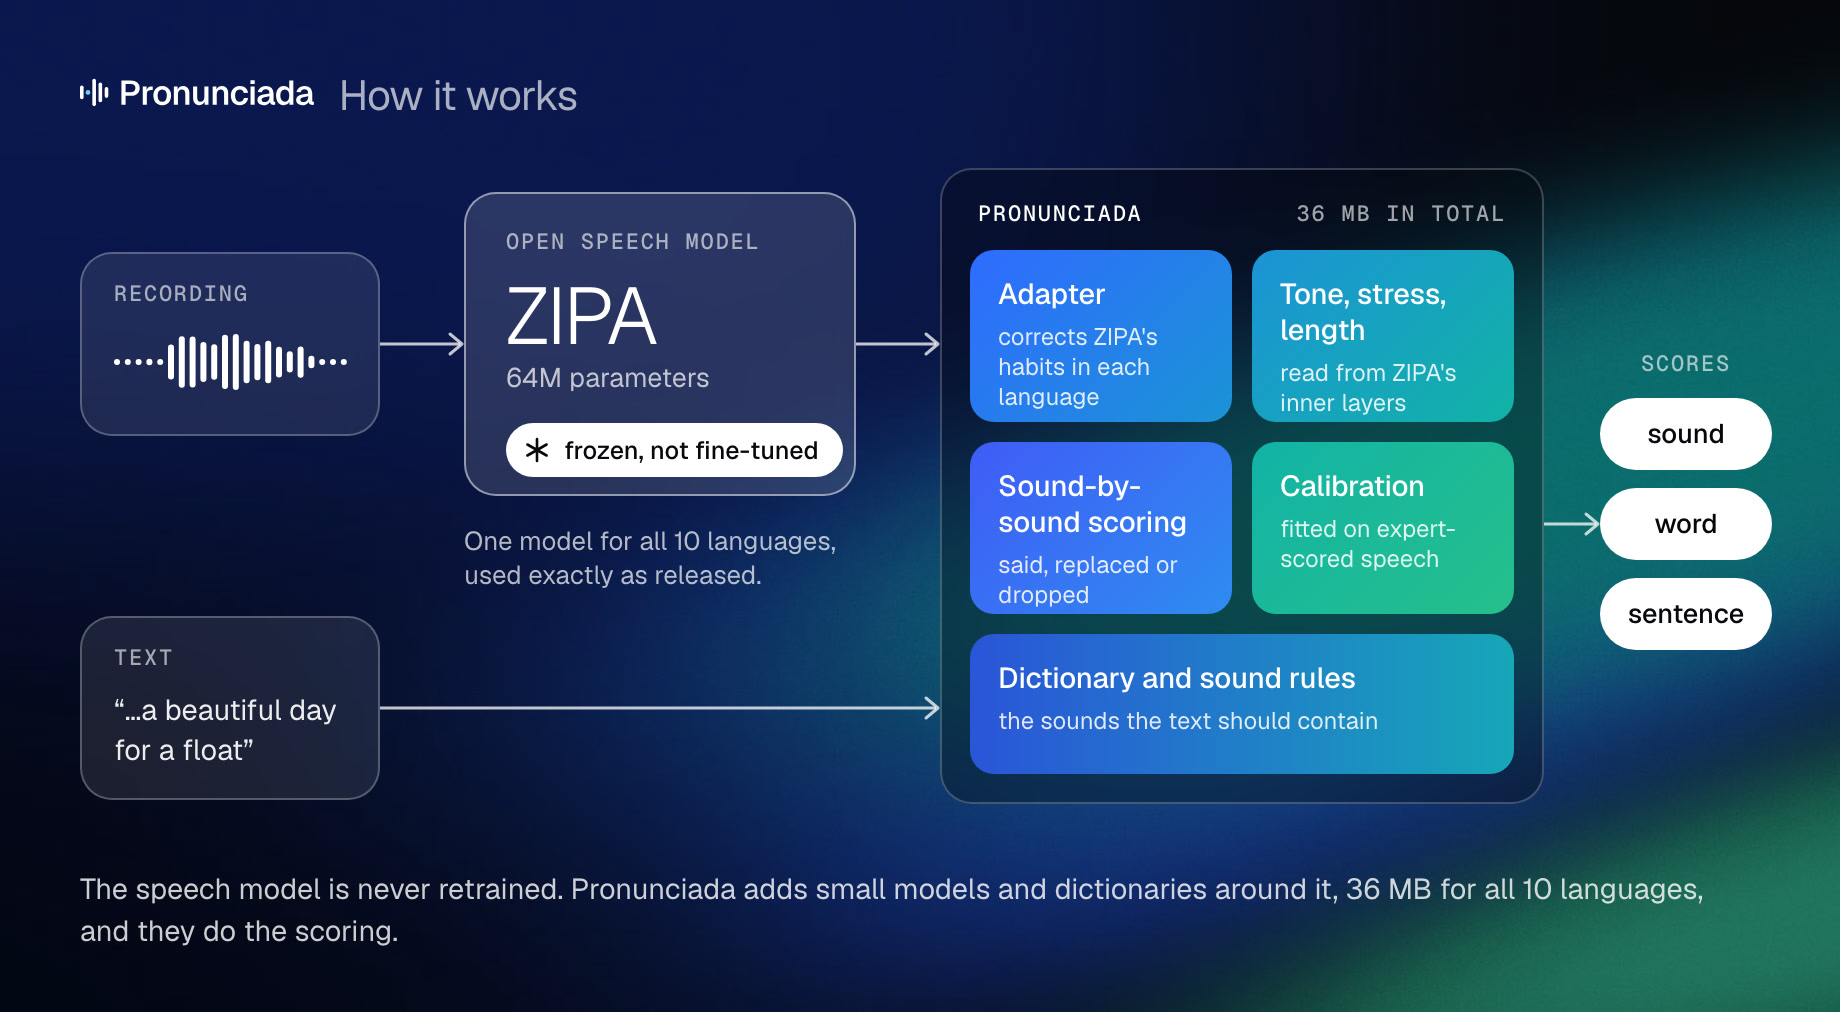
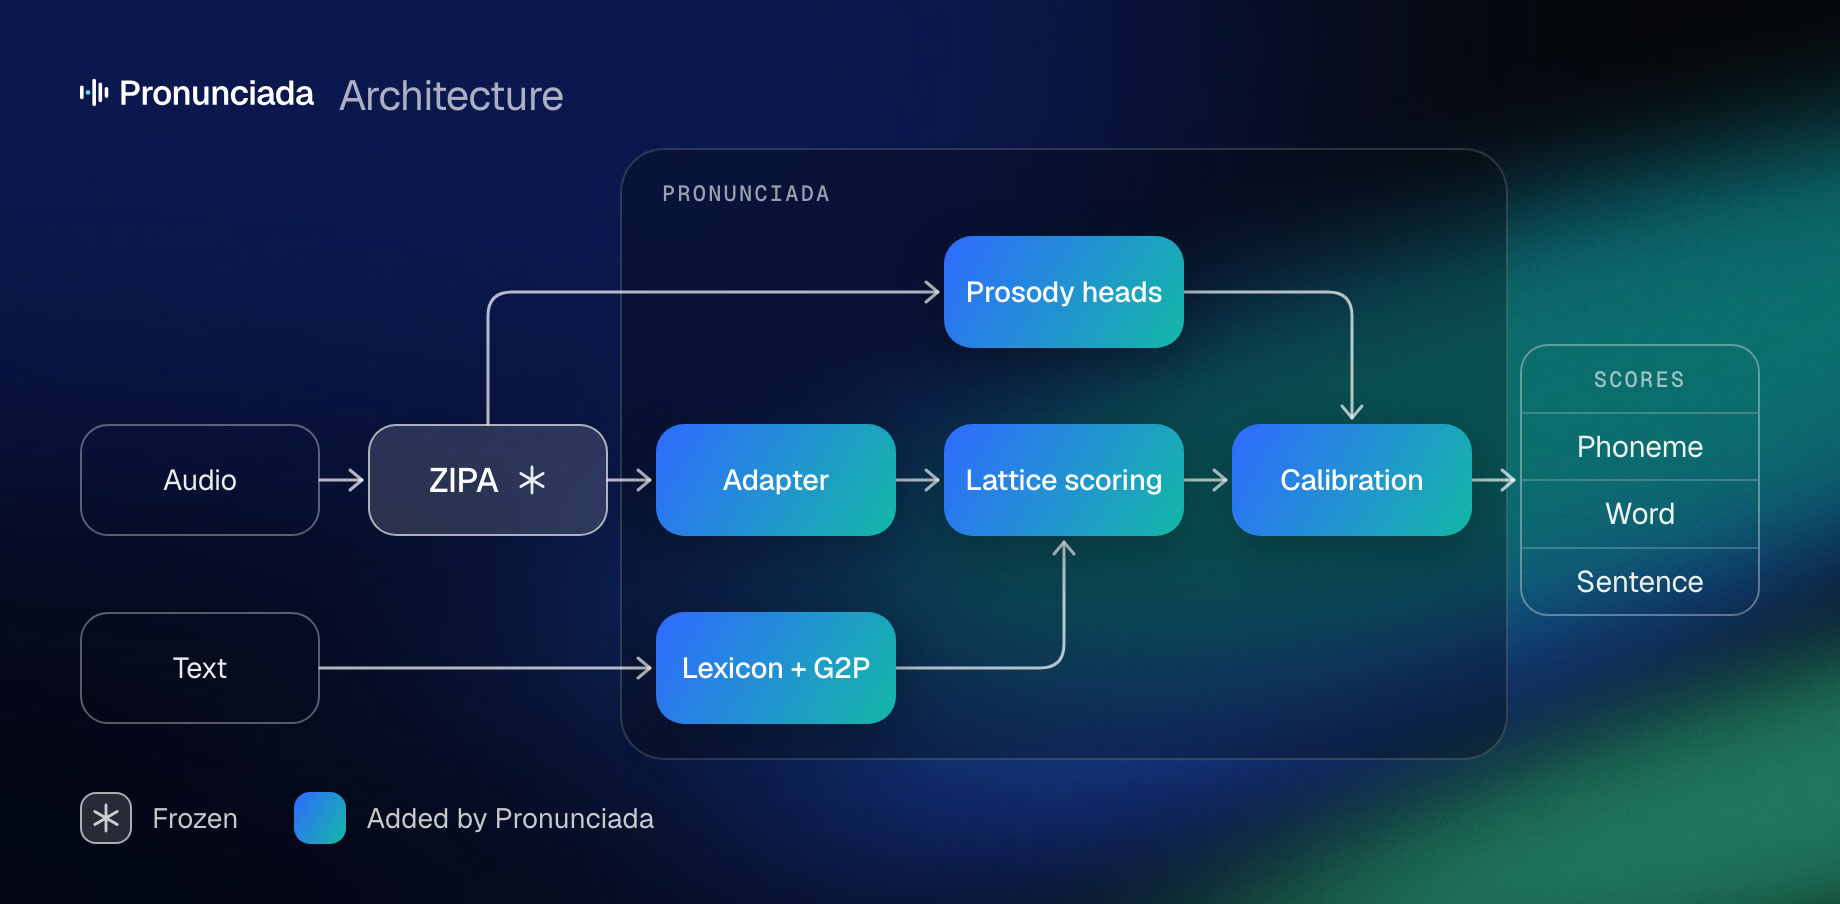
README: cleaner architecture diagram, ZIPA comparison in place of the detection chart, latency chart

diff --git a/scripts/graphics/make_site.py b/scripts/graphics/make_site.py
@@ -145,76 +145,63 @@ CARD_CSS = """
 *{box-sizing:border-box;margin:0}
 body{margin:0;font-family:'Geist',sans-serif;color:#fff;-webkit-font-smoothing:antialiased}
 .card{position:relative;width:920px;background:linear-gradient(rgba(4,6,10,.40),rgba(4,6,10,.40)),#06080c url(GRADIENT) center/cover}
-.arch{height:506px}
 .arch .head{position:absolute;left:40px;top:34px;display:flex;align-items:center;gap:12px;font-size:21px;letter-spacing:-.02em;color:rgba(255,255,255,.66)}
 .arch .head svg{height:17.5px;display:block}
-.box{position:absolute;border-radius:16px;background:rgba(255,255,255,.09);border:1px solid rgba(255,255,255,.26);backdrop-filter:blur(8px)}
-.in{padding:14px 16px}
-.in b,.zipa small,.group .gh{display:block;font:500 11px/1 'Geist Mono',monospace;letter-spacing:.08em;text-transform:uppercase;color:rgba(255,255,255,.62)}
-.in svg{display:block;margin-top:14px}
-.in p{margin-top:11px;font-size:14.5px;line-height:20px;color:rgba(255,255,255,.92)}
-.zipa{padding:18px 20px;background:rgba(255,255,255,.13);border-color:rgba(255,255,255,.5)}
-.zipa h3{margin:12px 0 2px;font-weight:300;font-size:40px;line-height:1;letter-spacing:-.03em}
-.zipa p{font-size:13.5px;color:rgba(255,255,255,.72)}
-.pill{display:inline-flex;align-items:center;gap:7px;margin-top:14px;height:27px;padding:0 12px 0 9px;border-radius:99px;background:#fff;color:#06080c;font-size:12.5px;font-weight:500;white-space:nowrap}
-.note{position:absolute;font-size:13px;color:rgba(255,255,255,.7)}
-.group{padding:16px 14px 14px;background:rgba(4,6,10,.34);border-color:rgba(255,255,255,.22)}
-.group .gh{display:flex;justify-content:space-between;padding:0 4px 13px}
-.group .gh span{color:#fff}
-.tiles{display:grid;grid-template-columns:1fr 1fr;gap:10px}
-.tile{height:86px;padding:13px 14px;border-radius:12px}
-.tile.wide{grid-column:1/-1;height:70px}
-.tile b{display:block;font-weight:500;font-size:14.5px;line-height:18px;letter-spacing:-.005em}
-.tile span{display:block;margin-top:5px;font-size:12px;line-height:15px;color:rgba(255,255,255,.86)}
-.out{position:absolute;width:86px;text-align:center}
-.out em{display:block;font:500 11px/1 'Geist Mono',monospace;letter-spacing:.08em;text-transform:uppercase;font-style:normal;color:rgba(255,255,255,.62);margin-bottom:12px}
-.out i{display:block;height:36px;margin-bottom:9px;border-radius:99px;background:#fff;color:#06080c;font:500 13.5px/36px 'Geist',sans-serif;font-style:normal}
-.arch .cap{position:absolute;left:40px;right:40px;bottom:30px;font-size:14.5px;line-height:21px;color:rgba(255,255,255,.8)}
+.nd{position:absolute;display:flex;align-items:center;justify-content:center;gap:9px;border-radius:14px;font-weight:500;font-size:14.5px;letter-spacing:-.01em;white-space:nowrap}
+.nd.io{border:1px solid rgba(255,255,255,.34);color:rgba(255,255,255,.92);font-weight:400}
+.nd.frozen{background:rgba(255,255,255,.14);border:1px solid rgba(255,255,255,.62);font-size:17px}
+.nd.tr{background:linear-gradient(120deg,#2f6bff,#14b8a6);box-shadow:0 8px 24px rgba(4,6,10,.28)}
+.nd.out{flex-direction:column;gap:0;padding:0;align-items:stretch;justify-content:stretch;border:1px solid rgba(255,255,255,.34);overflow:hidden;font-weight:400}
+.nd.out em,.nd.out span{flex:1;display:flex;align-items:center;justify-content:center;font-style:normal;font-size:15px;color:rgba(255,255,255,.92);border-top:1px solid rgba(255,255,255,.2)}
+.nd.out em{border-top:0;font:500 11px/1 'Geist Mono',monospace;letter-spacing:.1em;text-transform:uppercase;color:rgba(255,255,255,.6)}
+.nd .ic{opacity:.9}
+.region{position:absolute;border-radius:22px;background:rgba(4,6,10,.3);border:1px solid rgba(255,255,255,.16)}
+.region b{position:absolute;left:20px;top:16px;font:500 11px/1 'Geist Mono',monospace;letter-spacing:.1em;text-transform:uppercase;color:rgba(255,255,255,.6)}
 svg.wires{position:absolute;left:0;top:0}
+svg.wires path{fill:none;stroke:rgba(255,255,255,.7);stroke-width:1.5;stroke-linecap:round;stroke-linejoin:round}
+.legend{position:absolute;left:40px;bottom:30px;display:flex;align-items:center;gap:10px;font-size:14px;color:rgba(255,255,255,.78)}
+.legend .k{display:inline-flex;align-items:center;justify-content:center;width:26px;height:26px;border-radius:8px}
+.legend .k.frozen{background:rgba(255,255,255,.14);border:1px solid rgba(255,255,255,.62)}
+.legend .k.tr{background:linear-gradient(120deg,#2f6bff,#14b8a6);margin-left:18px}
 .stats{display:grid;grid-template-columns:1.25fr .8fr 1fr 1.15fr;gap:0 36px;padding:40px 44px 38px}
 .stats b{display:block;font-weight:300;font-size:58px;line-height:1;letter-spacing:-.04em;white-space:nowrap;font-variant-numeric:tabular-nums}
 .stats b small{font-size:25px;letter-spacing:-.02em;color:rgba(255,255,255,.72);margin-left:5px}
 .stats span{display:block;margin-top:14px;font-size:14.5px;line-height:20px;color:rgba(255,255,255,.78)}
 """
-TILES = (("linear-gradient(135deg,#2f6bff,#1b93d6)", "Adapter", "corrects ZIPA's habits in each language", ""),
-         ("linear-gradient(135deg,#1b93d6,#12b3a6)", "Tone, stress, length", "read from ZIPA's inner layers", ""),
-         ("linear-gradient(135deg,#3f5cf6,#2f8cf0)", "Sound-by-sound scoring", "said, replaced or dropped", ""),
-         ("linear-gradient(135deg,#12b3a6,#25c08a)", "Calibration", "fitted on expert-scored speech", ""),
-         ("linear-gradient(90deg,#2a55d8,#16a7b8)", "Dictionary and sound rules", "the sounds the text should contain", " wide"))
-
-
 def figure_architecture() -> str:
-    """How it works: the recording goes through ZIPA as released, and Pronunciada's small models do the scoring."""
-    import soundfile as sf
+    """The architecture as a graph: ZIPA frozen, Pronunciada's trained parts around it."""
     from make_logo import wordmark
 
-    sample = ROOT / "site/samples/en-learner-1"
-    audio, sr = sf.read(str(sample.with_suffix(".mp3")), dtype="float32", always_2d=True)
-    mono = audio.mean(axis=1)
-    n = 22
-    step = len(mono) // n
-    level = [float(abs(mono[i * step:(i + 1) * step]).max()) for i in range(n)]
-    top = max(level)
-    bars = "".join(f'<rect x="{i * 5.4:.1f}" y="{15 - max(1.5, (v / top) ** .7 * 14):.1f}" width="3" height="{2 * max(1.5, (v / top) ** .7 * 14):.1f}" rx="1.5" fill="#fff"/>'
-                   for i, v in enumerate(level))
-    snow = ('<svg width="13" height="13" viewBox="0 0 13 13" fill="none" stroke="#06080c" stroke-width="1.3" stroke-linecap="round">'
-            '<path d="M6.5 1v11M1.7 3.75l9.6 5.5M11.3 3.75l-9.6 5.5"/></svg>')
-    tiles = "".join(f'<div class="tile{cls}" style="background:{bg}"><b>{name}</b><span>{what}</span></div>' for bg, name, what, cls in TILES)
-    mb = round(sum(f.stat().st_size for f in (ROOT / "pronunciada/data").rglob("*") if f.is_file()) / 1e6)     # models and dictionaries
-    arrow = lambda x1, y, x2: (f'<path d="M{x1} {y}H{x2 - 2}" stroke="rgba(255,255,255,.75)" stroke-width="1.5"/>'
-                               f'<path d="M{x2 - 7} {y - 5}l6 5-6 5" fill="none" stroke="rgba(255,255,255,.75)" stroke-width="1.5" stroke-linejoin="round" stroke-linecap="round"/>')
-    wires = f'<svg class="wires" width="920" height="506">{arrow(190, 172, 232)}{arrow(428, 172, 470)}{arrow(190, 354, 470)}{arrow(772, 262, 800)}</svg>'
-    return (f'<div class="card arch"><div class="head">{wordmark("#ffffff")}<span>How it works</span></div>'
-            f'<div class="box in" style="left:40px;top:126px;width:150px;height:92px"><b>Recording</b><svg width="120" height="30">{bars}</svg></div>'
-            f'<div class="box in" style="left:40px;top:308px;width:150px;height:92px"><b>Text</b><p>“…a beautiful day for a float”</p></div>'
-            f'<div class="box zipa" style="left:232px;top:96px;width:196px;height:152px"><small>Open speech model</small><h3>ZIPA</h3><p>64M parameters</p>'
-            f'<span class="pill">{snow}frozen, not fine-tuned</span></div>'
-            f'<div class="note" style="left:232px;top:262px;width:196px">One model for all 10 languages, used exactly as released.</div>'
-            f'<div class="box group" style="left:470px;top:84px;width:302px;height:318px"><div class="gh"><span>Pronunciada</span>{mb} MB in total</div>'
-            f'<div class="tiles">{tiles}</div></div>'
-            f'<div class="out" style="left:800px;top:176px"><em>Scores</em><i>sound</i><i>word</i><i>sentence</i></div>'
-            f'{wires}<p class="cap">The speech model is never retrained. Pronunciada adds small models and dictionaries around it, {mb} MB for all 10 languages, '
-            'and they do the scoring.</p></div>')
+    W, H, NW, NH = 920, 452, 120, 56
+    col = [40 + i * 144 for i in range(6)]
+    row = [118, 212, 306]
+    snow = ('<svg class="ic" width="15" height="15" viewBox="0 0 15 15" fill="none" stroke="currentColor" stroke-width="1.4" stroke-linecap="round">'
+            '<path d="M7.5 1v13M1.9 4.25l11.2 6.5M13.1 4.25l-11.2 6.5"/></svg>')
+    node = lambda c, r, name, cls, extra="": (f'<div class="nd {cls}" style="left:{col[c]}px;top:{row[r]}px;width:{NW}px;height:{NH}px">'
+                                              f'{name}{extra}</div>')
+    nodes = (node(0, 1, "Audio", "io") + node(0, 2, "Text", "io") + node(1, 1, "ZIPA", "frozen", snow)
+             + node(2, 1, "Adapter", "tr") + node(3, 1, "Lattice scoring", "tr") + node(4, 1, "Calibration", "tr")
+             + node(2, 2, "Lexicon + G2P", "tr") + node(3, 0, "Prosody heads", "tr"))
+    out_h = 4 * 34
+    out = (f'<div class="nd out" style="left:{col[5]}px;top:{row[1] + NH // 2 - out_h // 2}px;width:{NW}px;height:{out_h}px">'
+           '<em>Scores</em><span>Phoneme</span><span>Word</span><span>Sentence</span></div>')
+    mid = [r + NH // 2 for r in row]
+    right = lambda c: col[c] + NW
+    head = {"r": "l-6 -5m6 5l-6 5", "u": "l-5 6m5 -6l5 6", "d": "l-5 -6m5 6l5 -6"}
+    wire = lambda d, way: f'<path d="{d}"/><path d="M{d.split()[-2]} {d.split()[-1]}{head[way]}"/>'
+    xs, xc = col[3] + NW // 2, col[4] + NW // 2            # into Lattice scoring from below, into Calibration from above
+    wires = "".join([
+        *(wire(f"M{right(c)} {mid[1]} L {col[c + 1] - 3} {mid[1]}", "r") for c in range(5)),
+        wire(f"M{right(0)} {mid[2]} L {col[2] - 3} {mid[2]}", "r"),
+        wire(f"M{right(2)} {mid[2]} H{xs - 12} Q{xs} {mid[2]} {xs} {mid[2] - 12} L {xs} {row[1] + NH + 3}", "u"),
+        wire(f"M{col[1] + NW // 2} {row[1]} V{mid[0] + 12} Q{col[1] + NW // 2} {mid[0]} {col[1] + NW // 2 + 12} {mid[0]} L {col[3] - 3} {mid[0]}", "r"),
+        wire(f"M{right(3)} {mid[0]} H{xc - 12} Q{xc} {mid[0]} {xc} {mid[0] + 12} L {xc} {row[1] - 3}", "d"),
+    ])
+    region = (f'<div class="region" style="left:{col[2] - 18}px;top:{row[0] - 44}px;width:{right(4) - col[2] + 36}px;'
+              f'height:{row[2] + NH - row[0] + 62}px"><b>Pronunciada</b></div>')
+    legend = (f'<div class="legend"><span class="k frozen">{snow}</span>Frozen<span class="k tr"></span>Added by Pronunciada</div>')
+    return (f'<div class="card arch" style="height:{H}px"><div class="head">{wordmark("#ffffff")}<span>Architecture</span></div>'
+            f'{region}<svg class="wires" width="{W}" height="{H}">{wires}</svg>{nodes}{out}{legend}</div>')
 
 
 def figure_stats() -> str:
@@ -239,7 +226,7 @@ def readme_images() -> None:
     head = f"<!doctype html><html><head><meta charset='utf-8'><style>{font_css()}{css}{dark}</style></head><body>"
     gradient = (ROOT / "site/assets/gradient.jpg").as_uri()
     card = f"<!doctype html><html><head><meta charset='utf-8'><style>{font_css()}{CARD_CSS.replace('GRADIENT', gradient)}</style></head><body>"
-    render(card + figure_architecture() + "</body></html>", ROOT / "docs/assets/architecture.jpg", 920, 506)
+    render(card + figure_architecture() + "</body></html>", ROOT / "docs/assets/architecture.jpg", 920, 452)
     render(card + figure_stats() + "</body></html>", ROOT / "docs/assets/stats.jpg", 920, 196)
     langs = re.search(r'<div class="langs">.*?</div>', page, re.S).group(0)
     from common import height_of

diff --git a/scripts/graphics/make_charts.py b/scripts/graphics/make_charts.py
@@ -2,12 +2,13 @@
 
     python scripts/graphics/make_charts.py
 
-Outputs docs/assets/chart-english.png, chart-detection.png, chart-languages.png, chart-zipa.png and chart-tally.png (920 px wide,
+Outputs docs/assets/chart-english.png, chart-languages.png, chart-zipa.png and chart-tally.png (920 px wide,
 2x, so the lettering stays readable at README width). Every number is read from the scoreboard tables, which `python -m bench.scoreboard`
 generates from results/tables/*.json, so the charts cannot drift from the published results.
 """
 from __future__ import annotations
 
+import math
 import re
 
 from common import INK, ROOT, font_css, render
@@ -214,6 +215,36 @@ def dumbbell(rows, lo=0.86, hi=1.0, ticks=(.86, .88, .90, .92, .94, .96, .98, 1.
     return "".join(o)
 
 
+def speed() -> tuple[float, float, float]:
+    """English row of the scoreboard's long-clip table: (Pronunciada seconds, Azure seconds, clip length in seconds)."""
+    row = next(r for r in table("Longer clips next to Azure") if r[0] == "en")
+    ours = re.match(r"(\d+) ms \((\d+\.\d+) s\)", row[1])
+    azure = re.match(r"(\d+\.\d+) s", row[2])
+    return int(ours.group(1)) / 1000, float(azure.group(1)), float(ours.group(2))
+
+
+def speed_bars(ours: float, azure: float, label_w: int = 150):
+    pw = W - 80
+    x0, x1 = label_w, pw - 90
+    hi = math.ceil(azure * 2) / 2
+    sx = lambda v: x0 + v / hi * (x1 - x0)
+    pitch, bh = 54, 22
+    h = 2 * pitch + 34
+    o = [f'<svg class="plot" xmlns="http://www.w3.org/2000/svg" width="{pw}" height="{h}">']
+    t = 0.0
+    while t <= hi + 1e-9:
+        o.append(f'<line x1="{sx(t):.1f}" y1="0" x2="{sx(t):.1f}" y2="{h - 30}" stroke="{RULE}"/>')
+        o.append(f'<text class="tick" x="{sx(t):.1f}" y="{h - 10}" text-anchor="middle">{t:g} s</text>')
+        t += 0.5
+    for i, (name, v, col, fill) in enumerate((("Pronunciada", ours, OURS, "#fff"), ("Azure", azure, THEIRS, "#b4b4bb"))):
+        y = i * pitch + 14
+        o.append(f'<text class="lab" x="0" y="{y + bh - 5}">{name}</text>')
+        o.append(f'<rect x="{x0}" y="{y}" width="{sx(v) - x0:.1f}" height="{bh}" rx="2" fill="{col}"/>')
+        o.append(f'<text class="val" x="{sx(v) + 10:.1f}" y="{y + bh - 6}" fill="{fill}">{v:.2f} s</text>')
+    o.append("</svg>")
+    return "".join(o)
+
+
 def height(n_rows: int, pitch: int, extra: int) -> int:
     return 36 + 26 + 26 + n_rows * pitch + extra
 
@@ -226,16 +257,25 @@ if __name__ == "__main__":
                 "Pearson correlation with expert scores, higher is better. speechocean762 test set: 2,500 recordings, "
                 f"125 speakers. Lines show 95% confidence intervals. {star}"),
            out / "chart-english.png", W, height(len(e), 64, 34 + 112))
-    d = detection()
-    render(page("Detecting mispronunciations", bars(d, chance=0.5),
-                "Area under the ROC curve for the phonemes or words that annotators marked wrong, higher is better. "
-                f"Held-out test sets; L2-ARCTIC and EpaDB were not used in training. Lines show 95% confidence intervals. {star}"),
-           out / "chart-detection.png", W, height(len(d), 64, 34 + 112))
     l = languages()
     render(page("10 languages: changed-word detection", dumbbell(l),
                 "Native FLEURS test recordings, 150 per language, scored against a reference with one word replaced by a "
                 f"word one phoneme away. Area under the ROC curve for the replaced word, higher is better. Not a test on learner speech. {star}"),
            out / "chart-languages.png", W, height(len(l), 38, 40 + 112))
+    keep = ("English phonemes, expert scores (r)", "English sentences, expert scores (r)", "English errors, L2-ARCTIC (AUC)", "Mandarin errors, tone (AUC)")
+    z = [r for r in zipa() if r["label"] in keep]
+    render(page("What the project adds to ZIPA", bars(z, label_w=300),
+                "The same held-out learner tests, scored by Pronunciada and by the unmodified ZIPA model with the standard "
+                "goodness-of-pronunciation method. r = Pearson correlation with expert scores, AUC = area under the ROC curve "
+                f"for marked errors. Lines show 95% confidence intervals. {star}",
+                legend=((OURS, "Pronunciada"), (THEIRS, "ZIPA alone"))),
+           out / "chart-zipa.png", W, height(len(z), 64, 34 + 112))
+    ours, azure, clip = speed()
+    render(page(f"Time to score a {clip:.0f}-second recording", speed_bars(ours, azure),
+                f"Lower is better. Medians over English FLEURS test recordings of about {clip:.0f} seconds. Pronunciada ran on the laptop with "
+                "one CPU thread. The Azure time is the whole request from the same laptop, upload included. The two systems were timed on "
+                "different recordings of similar length.", legend=()),
+           out / "chart-speed.png", W, 36 + 26 + 26 + 2 * 54 + 34 + 106)
     t = tally()
     total = [sum(r[k] for r in t) for k in (1, 2, 3, 4)]
     render(page("Head-to-head with Azure, by language", stacked(t),
@@ -244,4 +284,4 @@ if __name__ == "__main__":
                 "Learner speech with expert marks exists for English and Mandarin only; the other languages use native speech with altered prompts and Common Voice.",
                 legend=((OURS, "Pronunciada significantly ahead"), (THEIRS, "No significant difference"), (BEHIND, "Azure significantly ahead"))),
            out / "chart-tally.png", W, 36 + 26 + 34 + 26 + len(t) * 38 + 8 + 112)
-    print("wrote chart-english.png, chart-detection.png, chart-languages.png, chart-tally.png")
+    print("wrote chart-english.png, chart-languages.png, chart-zipa.png, chart-speed.png, chart-tally.png")

diff --git a/README.md b/README.md
@@ -96,9 +96,13 @@ The most direct tests use recordings of learners that experts have graded by han
 
 It is also better at finding the sounds and the Mandarin tones that teachers marked as wrong.
 
-![Area under the ROC curve for detecting mispronunciations, Pronunciada and Azure. L2-ARCTIC 0.712 and 0.631, EpaDB 0.721 and 0.587, Mandarin words with any error 0.790 and 0.704, Mandarin words with tone errors 0.777 and 0.679.](docs/assets/chart-detection.png)
+Pronunciada is built on [ZIPA](https://github.com/lingjzhu/zipa), an open speech model, and adds the scoring around it. On the same learner tests it is significantly more accurate than ZIPA alone on 48 of 60, and less accurate on none.
+
+![Pronunciada and the unmodified ZIPA model on four learner tests. English phonemes 0.700 and 0.434, English sentences 0.778 and 0.583 (Pearson). L2-ARCTIC 0.712 and 0.659, Mandarin tone errors 0.777 and 0.552 (AUC).](docs/assets/chart-zipa.png)
 
 These results use the full 260 MB model. The 71 MB model is slightly behind it, with 47 wins and 4 losses against Azure. On an Apple M3 Pro it scores a 3.4-second sentence in about 40 ms with four CPU threads and 65 ms with one, and uses about 0.3 GB of memory. A request to Azure for a nine-second sentence took about two seconds from the same laptop.
+
+![Time to score a 9-second recording: Pronunciada 0.33 s on the laptop with one CPU thread, Azure 2.34 s for the request to the cloud and back.](docs/assets/chart-speed.png)
 
 Every test and its confidence interval is in the [scoreboard](results/SCOREBOARD.md). Azure was called through its REST API (region `westus`) in November 2026 and was not tuned on any of this data.
 
@@ -148,13 +152,13 @@ Pronunciada also runs outside Python:
 
 ## How it works
 
-![How it works. The recording goes into ZIPA, an open speech model with 64M parameters that is frozen and not fine-tuned. The text goes into Pronunciada's dictionary and sound rules. Pronunciada's adapter, sound-by-sound scoring, tone, stress and length models and calibration, 36 MB in total, turn ZIPA's output into scores for each sound, word and sentence.](docs/assets/architecture.jpg)
+![Architecture. Audio goes into ZIPA, which is frozen. Its output passes through Pronunciada's adapter, lattice scoring and calibration to give phoneme, word and sentence scores. The text goes through the lexicon and G2P into lattice scoring, and prosody heads read ZIPA and feed calibration.](docs/assets/architecture.jpg)
 
 Pronunciada does not retrain a speech model. [ZIPA](https://github.com/lingjzhu/zipa), an open phone recognizer, is used exactly as released for all 10 languages. It listens to the recording and reports the sounds it hears, without seeing the text.
 
 Everything Pronunciada adds sits around ZIPA and comes to 36 MB. A dictionary and the sound rules of each language turn the text into the sounds a speaker should produce. A small adapter corrects ZIPA's habits in each language. For every expected sound, the scorer weighs three explanations: it was said, it was replaced by another sound, or it was dropped. Calibration models fitted on expert-scored speech turn that evidence into the probabilities you get back, and separate small models read tone, stress and length from ZIPA's inner layers.
 
-On the same learner tests, this is significantly more accurate than ZIPA alone on 48 of 60, and less accurate on none. The design is described in [docs/DESIGN.md](docs/DESIGN.md).
+The design is described in [docs/DESIGN.md](docs/DESIGN.md).
 
 ## Limitations
 
